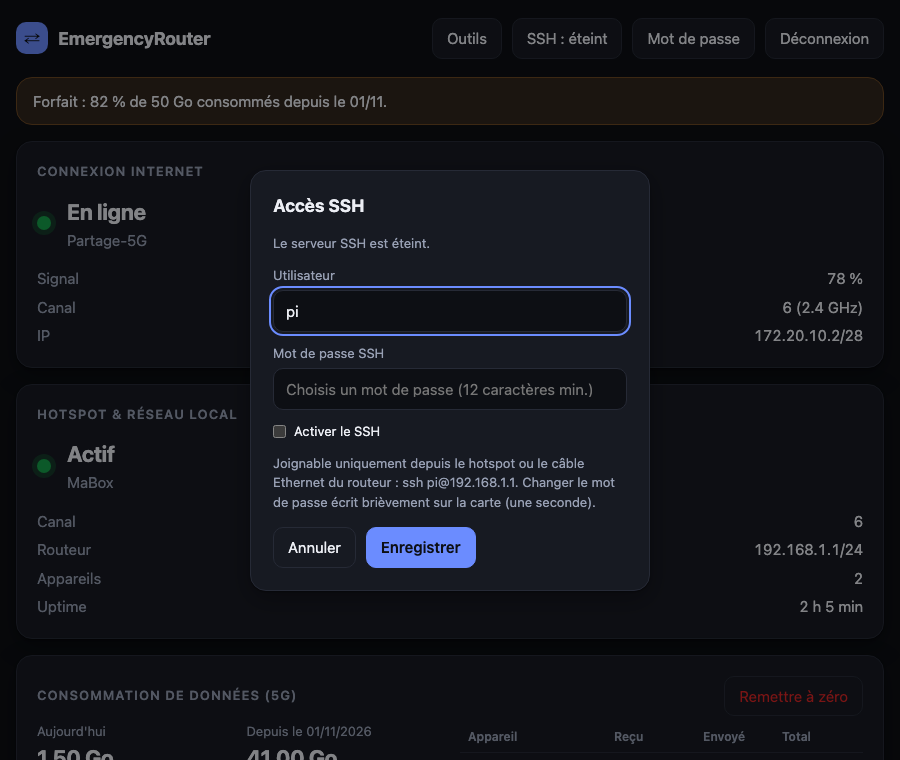
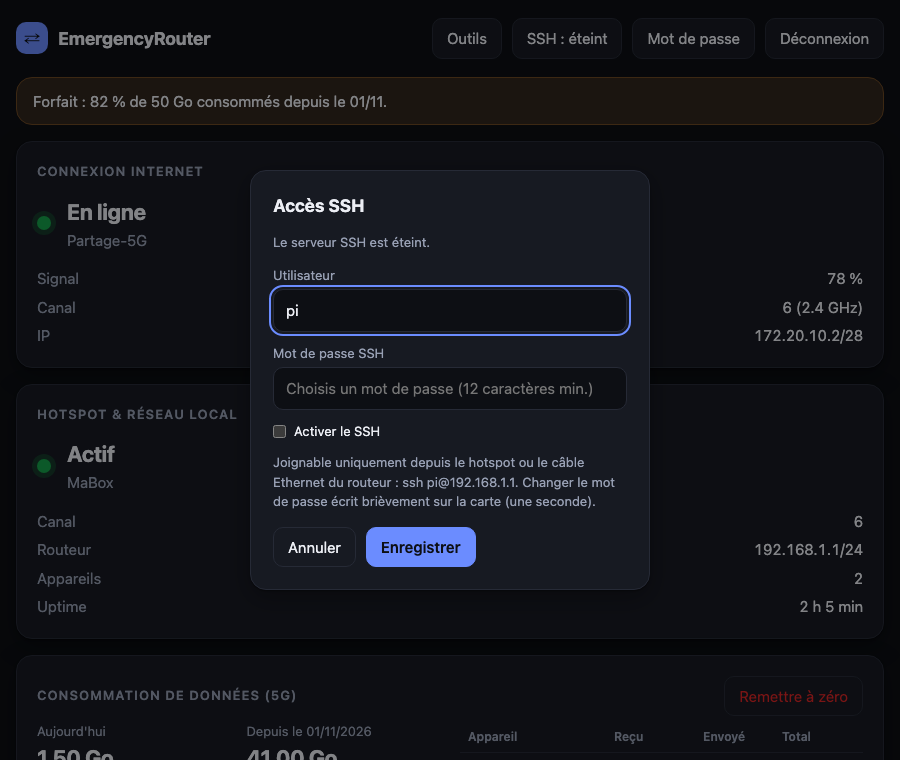
Assistant : le hotspot n'est appliqué qu'à la fin ; la coupure du Wi-Fi est gérée
Défaut constaté sur le Pi : l'étape 1 enregistrait immédiatement le nouveau nom et mot de passe du hotspot, alors que
l'assistant est utilisé PAR ce hotspot (ERouter-Setup). Il redémarrait, l'appareil perdait la connexion et l'étape 2
ne s'affichait jamais. Le faux serveur des tests ne coupait jamais la connexion : le défaut passait inaperçu.

- ordre : 5G, puis hotspot, puis fin ; le hotspot (et « assistant terminé ») sont envoyés en UN SEUL envoi à la toute fin,
  avec un avertissement clair et le nom du Wi-Fi sur lequel se reconnecter
- connecter l'iPhone fait changer le hotspot de canal (une seule puce) : la réponse HTTP peut ne jamais revenir ;
  l'assistant sonde alors le routeur jusqu'à voir la 5G connectée au lieu d'afficher une erreur
- plus aucune requête suspendue indéfiniment (délai maximal) ; une erreur de coupure est reconnaissable (err.network)
- recherche des réseaux lancée d'office quand la liste en cache est vide
- tests : aucun réglage du hotspot avant « Terminer » (vérifié : le test échoue sur l'ancienne version) ;
  scénario où la connexion est coupée en pleine connexion à l'uplink

diff --git a/erouter/static/features.js b/erouter/static/features.js
@@ -177,80 +177,107 @@ function openQr() {
 $("#qrClose").onclick = () => $("#qrDlg").close();
 
 // ---------- Assistant de premier démarrage ----------
-const wiz = {step: 0, ssid: "", password: "", networks: [], picked: "", connected: false};
-const WIZ_TITLES = ["1/3 · Le hotspot", "2/3 · La connexion 5G", "3/3 · Terminé"];
+// IMPORTANT : on est connecté à cet assistant PAR le hotspot du routeur. Changer son nom ou son mot de passe coupe donc la
+// connexion : c'est la toute dernière chose que fait l'assistant. La 5G d'abord (elle peut aussi couper le Wi-Fi quelques
+// secondes : le hotspot change de canal pour suivre l'iPhone), le hotspot à la fin.
+const pause = ms => new Promise(r => setTimeout(r, ms));
+const wiz = {step: 0, ssid: "", password: "", networks: [], picked: "", connected: false, shown: false};
+const WIZ_TITLES = ["1/3 · La connexion 5G", "2/3 · Le hotspot", "3/3 · Terminé"];
+const hotspotChanges = () => !settings || wiz.ssid !== settings.ap.ssid || wiz.password !== settings.ap.password;
 function stepper() { return `<div class="step">${[0, 1, 2].map(i => `<i class="${i <= wiz.step ? "on" : ""}"></i>`).join("")}</div>`; }
 function renderWizard() {
   $("#wizTitle").textContent = WIZ_TITLES[wiz.step];
   $("#wizErr").textContent = "";
   $("#wizPrev").hidden = wiz.step === 0;
+  $("#wizNext").disabled = false;
   $("#wizNext").textContent = wiz.step === 2 ? "Terminer" : "Suivant";
   $("#wizSkip").hidden = wiz.step === 2;
   let html = stepper();
   if (wiz.step === 0) {
-    html += `<p class="muted small">Le hotspot que ce routeur diffuse. Pour que tes appareils s'y connectent tout seuls, utilise le <b>même nom et le même mot de passe que ta box fibre</b>.</p>
-      <label>Nom du Wi-Fi (SSID)<input id="wzSsid" maxlength="32" value="${esc(wiz.ssid)}"></label>
-      <label>Mot de passe (8 caractères minimum)<input id="wzPw" type="text" autocomplete="off" maxlength="63" value="${esc(wiz.password)}"></label>`;
-  } else if (wiz.step === 1) {
-    html += `<p class="muted small">Choisis le partage de connexion de ton téléphone (idéalement en 2,4 GHz).</p>
+    html += `<p class="muted small">Choisis le partage de connexion de ton téléphone (idéalement en 2,4 GHz) et <b>garde l'écran « Partage de connexion » ouvert</b> sur le téléphone pendant la recherche. Le Wi-Fi du routeur peut se couper quelques secondes pendant la connexion : l'assistant attend.</p>
       <div class="list" id="wzNets">${wiz.networks.map(n => `<label class="item"><input type="radio" name="wzNet" value="${esc(n.ssid)}" ${wiz.picked === n.ssid ? "checked" : ""}>
-        <span class="name">${esc(n.ssid)}</span><span class="tag">${n.freq > 4000 ? "5 GHz" : "2,4 GHz"}</span>${n.in_use ? '<span class="tag ok">connecté</span>' : ""}</label>`).join("") || '<div class="muted">Aucun réseau trouvé.</div>'}</div>
+        <span class="name">${esc(n.ssid)}</span><span class="tag">${n.freq > 4000 ? "5 GHz" : "2,4 GHz"}</span>${n.in_use ? '<span class="tag ok">connecté</span>' : ""}</label>`).join("")
+        || `<div class="muted">${wiz.scanning ? "Recherche des réseaux…" : "Aucun réseau trouvé : active le partage de connexion puis actualise."}</div>`}</div>
       <button type="button" id="wzScan">Actualiser la liste</button>
       <label id="wzPwWrap" hidden>Mot de passe du réseau<input id="wzNetPw" type="password" autocomplete="off" maxlength="63"></label>
       <p class="muted small">Tu peux aussi passer cette étape et la faire plus tard.</p>`;
+  } else if (wiz.step === 1) {
+    html += `<p class="muted small">Le hotspot que ce routeur diffuse. Pour que tes appareils s'y connectent tout seuls, utilise le <b>même nom et le même mot de passe que ta box fibre</b>. Il ne sera appliqué qu'à la fin.</p>
+      <label>Nom du Wi-Fi (SSID)<input id="wzSsid" maxlength="32" value="${esc(wiz.ssid)}"></label>
+      <label>Mot de passe (8 caractères minimum)<input id="wzPw" type="text" autocomplete="off" maxlength="63" value="${esc(wiz.password)}"></label>`;
   } else {
-    html += `<p>${wiz.connected ? "La 5G est connectée." : "La 5G n'est pas encore connectée : tu pourras la choisir plus tard dans « Réseaux Wi-Fi »."}</p>
-      <p class="muted small">Tes appareils peuvent rejoindre « ${esc(wiz.ssid)} ». Besoin d'un accès SSH ? Bouton « SSH » en haut de la page. Le bouton « Outils » regroupe le QR code du Wi-Fi, la sauvegarde et le diagnostic.</p>
-      <button type="button" id="wzQr">Afficher le QR code du Wi-Fi</button>`;
+    html += `<p>${wiz.connected ? "La 5G est connectée." : "La 5G n'est pas encore connectée : tu pourras la choisir plus tard dans « Réseaux Wi-Fi »."}</p>` +
+      (hotspotChanges() ? `<p class="banner">En terminant, le hotspot devient <b>« ${esc(wiz.ssid)} »</b> avec le mot de passe que tu as choisi. <b>Ton appareil sera déconnecté</b> : reconnecte-toi à ce Wi-Fi, puis rouvre cette page.</p>` : `<p class="muted small">Le hotspot reste « ${esc(wiz.ssid)} ».</p>`) +
+      `<p class="muted small">Besoin d'un accès SSH ? Bouton « SSH » en haut de la page. Le bouton « Outils » regroupe le QR code du Wi-Fi, la sauvegarde et le diagnostic.</p>
+      <button type="button" id="wzQr">Afficher le QR code du Wi-Fi actuel</button>`;
   }
   $("#wizBody").innerHTML = html;
-  if (wiz.step === 1) {
+  if (wiz.step === 0) {
     $("#wzScan").onclick = () => scanForWizard(true);
     $("#wizBody").onchange = e => { if (e.target.name === "wzNet") { wiz.picked = e.target.value; const n = wiz.networks.find(x => x.ssid === wiz.picked); $("#wzPwWrap").hidden = !(n && n.secured && !n.saved); } };
   }
   if (wiz.step === 2) $("#wzQr").onclick = () => { $("#wizDlg").close(); openQr(); };
 }
 async function scanForWizard(rescan) {
+  wiz.scanning = true; renderWizard();
   try {
-    const d = await api("/api/wifi/scan" + (rescan ? "?rescan=1" : ""));
+    const d = await api("/api/wifi/scan" + (rescan ? "?rescan=1" : ""), undefined, rescan ? 70000 : 25000);
     wiz.networks = d.networks.map(n => ({...n, saved: d.saved.includes(n.ssid)}));
-  } catch (e) { $("#wizErr").textContent = e.message; }
-  renderWizard();
+    if (!wiz.networks.length && !rescan) { wiz.scanning = false; return scanForWizard(true); }     // aucun résultat en cache : on lance une vraie recherche
+  } catch (e) { wiz.scanning = false; renderWizard(); $("#wizErr").textContent = e.message; return; }
+  wiz.scanning = false; renderWizard();
+}
+async function waitForUplink(ssid, seconds) {
+  for (let i = 0; i < seconds / 2; i++) {
+    await pause(2000);
+    try { const s = await api("/api/status", undefined, 5000); if (s.uplink.connected && s.uplink.ssid === ssid) return true; } catch (e) { /* le Wi-Fi du routeur revient */ }
+  }
+  return false;
 }
 async function wizardNext() {
   $("#wizErr").textContent = "";
   if (wiz.step === 0) {
-    wiz.ssid = $("#wzSsid").value.trim(); wiz.password = $("#wzPw").value;
-    if (!wiz.ssid || wiz.password.length < 8) { $("#wizErr").textContent = "Un nom et un mot de passe de 8 caractères minimum."; return; }
-    try { await api("/api/settings", {ap: {ssid: wiz.ssid, password: wiz.password, enabled: true}}); } catch (e) { $("#wizErr").textContent = e.message; return; }
-    wiz.step = 1; await scanForWizard(false); return;
-  }
-  if (wiz.step === 1) {
     if (wiz.picked && !wiz.connected) {
       const n = wiz.networks.find(x => x.ssid === wiz.picked);
       const pw = n && n.secured && !n.saved ? $("#wzNetPw").value : null;
       if (n && n.secured && !n.saved && !pw) { $("#wizErr").textContent = "Saisis le mot de passe du réseau."; $("#wzPwWrap").hidden = false; return; }
       $("#wizNext").disabled = true; $("#wizNext").textContent = "Connexion…";
-      try { await api("/api/wifi/connect", {ssid: wiz.picked, password: pw}); wiz.connected = true; }
-      catch (e) { $("#wizErr").textContent = e.message; $("#wizNext").disabled = false; $("#wizNext").textContent = "Suivant"; return; }
-      $("#wizNext").disabled = false;
+      try { await api("/api/wifi/connect", {ssid: wiz.picked, password: pw}, 90000); wiz.connected = true; }
+      catch (e) {
+        if (e.network) wiz.connected = await waitForUplink(wiz.picked, 40);      // coupure attendue : on attend que le routeur revienne
+        if (!wiz.connected) { $("#wizErr").textContent = e.network ? "Connexion non confirmée : vérifie le mot de passe et que le partage de connexion est actif." : e.message; renderWizardKeep(); return; }
+      }
     }
+    wiz.step = 1; renderWizard(); return;
+  }
+  if (wiz.step === 1) {
+    wiz.ssid = $("#wzSsid").value.trim(); wiz.password = $("#wzPw").value;
+    if (!wiz.ssid || wiz.password.length < 8) { $("#wizErr").textContent = "Un nom et un mot de passe de 8 caractères minimum."; return; }
     wiz.step = 2; renderWizard(); return;
   }
   await finishWizard();
 }
+function renderWizardKeep() { const err = $("#wizErr").textContent; renderWizard(); $("#wizErr").textContent = err; }
 async function finishWizard() {
-  try { await api("/api/settings", {setup: {done: true}}); } catch (e) { /* sans gravité : l'assistant se rouvrira */ }
-  $("#wizDlg").close(); loadSettingsAll(); refresh();
+  const changed = hotspotChanges();
+  $("#wizNext").disabled = true; $("#wizNext").textContent = "Application…";
+  try { await api("/api/settings", {ap: {ssid: wiz.ssid, password: wiz.password, enabled: true}, setup: {done: true}}); }
+  catch (e) {
+    if (!e.network) { $("#wizErr").textContent = e.message; $("#wizNext").disabled = false; $("#wizNext").textContent = "Terminer"; return; }
+    // coupure attendue : le hotspot vient de changer de nom
+  }
+  $("#wizDlg").close();
+  if (changed) alert(`Le hotspot s'appelle maintenant « ${wiz.ssid} ».\nReconnecte ton appareil à ce Wi-Fi avec le nouveau mot de passe, puis rouvre cette page.`);
+  else { loadSettingsAll(); refresh(); }
 }
 function openWizard() {
-  Object.assign(wiz, {step: 0, ssid: settings?.ap.ssid ?? "", password: settings?.ap.password ?? "", picked: "", connected: false});
-  renderWizard(); $("#wizDlg").showModal();
+  Object.assign(wiz, {step: 0, ssid: settings?.ap.ssid ?? "", password: settings?.ap.password ?? "", picked: "", connected: false, networks: []});
+  renderWizard(); $("#wizDlg").showModal(); scanForWizard(false);
 }
 $("#wizForm").onsubmit = e => { e.preventDefault(); wizardNext(); };
-$("#wizPrev").onclick = () => { wiz.step = Math.max(0, wiz.step - 1); if (wiz.step === 1) scanForWizard(false); else renderWizard(); };
-$("#wizSkip").onclick = async () => { if (wiz.step === 0 || wiz.step === 1) { wiz.step += 1; if (wiz.step === 1) await scanForWizard(false); else renderWizard(); } };
-$("#wizDlg").addEventListener("cancel", e => { e.preventDefault(); });   // on ne ferme pas l'assistant par un appui sur Échap : « Passer » est explicite
+$("#wizPrev").onclick = () => { wiz.step = Math.max(0, wiz.step - 1); if (wiz.step === 0 && !wiz.networks.length) scanForWizard(false); else renderWizard(); };
+$("#wizSkip").onclick = () => { if (wiz.step < 2) { wiz.step += 1; renderWizard(); } };
+$("#wizDlg").addEventListener("cancel", e => { e.preventDefault(); });   // pas de fermeture par Échap : « Passer » est explicite
 
 // ---------- Cycle de vie ----------
 let timers2 = [];

diff --git a/tests/ui/scenarios/wizard.js b/tests/ui/scenarios/wizard.js
@@ -1,25 +1,21 @@
 async function scenario() {
   await sleep(2500);
-  const out = {openedByItself: document.getElementById("wizDlg").open, title1: document.getElementById("wizTitle").textContent};
-  document.getElementById("wzSsid").value = ""; document.getElementById("wzPw").value = "";
-  document.getElementById("wizNext").click(); await sleep(200);                       // champs vides : refus
-  out.errEmpty = document.getElementById("wizErr").textContent;
-  document.getElementById("wzSsid").value = "MaBox"; document.getElementById("wzPw").value = "motdepasse-box";
-  document.getElementById("wizNext").click(); await sleep(600);
-  out.title2 = document.getElementById("wizTitle").textContent;
-  out.networks = document.querySelectorAll("#wzNets .item").length;
-  document.getElementById("wizNext").click(); await sleep(200);                       // rien choisi : on passe
-  out.title3 = document.getElementById("wizTitle").textContent;
-  document.getElementById("wizPrev").click(); await sleep(500);
-  out.backToStep2 = document.getElementById("wizTitle").textContent;
-  const radio = document.querySelectorAll('#wzNets input[type=radio]')[1]; radio.checked = true; radio.dispatchEvent(new Event("change", {bubbles: true}));
-  out.pwShown = !document.getElementById("wzPwWrap").hidden;
-  document.getElementById("wizNext").click(); await sleep(200);                       // mot de passe manquant
-  out.errNoPw = document.getElementById("wizErr").textContent;
-  document.getElementById("wzNetPw").value = "motdepasse-5g"; document.getElementById("wizNext").click(); await sleep(600);
-  out.title3b = document.getElementById("wizTitle").textContent;
-  out.connectedMsg = document.getElementById("wizBody").textContent.slice(0, 40);
-  document.getElementById("wizNext").click(); await sleep(600);                       // « Terminer »
-  out.closed = !document.getElementById("wizDlg").open;
+  const $ = id => document.getElementById(id);
+  const out = {openedByItself: $("wizDlg").open, title1: $("wizTitle").textContent, networks: document.querySelectorAll("#wzNets .item").length};
+  const radio = document.querySelectorAll("#wzNets input[type=radio]")[1];          // « Routeur-4G » : protégé, pas encore enregistré
+  radio.checked = true; radio.dispatchEvent(new Event("change", {bubbles: true}));
+  $("wizNext").click(); await sleep(200);                                           // sans mot de passe : refus
+  out.errNoPw = $("wizErr").textContent;
+  $("wzNetPw").value = "motdepasse-5g"; $("wizNext").click(); await sleep(700);
+  out.title2 = $("wizTitle").textContent;
+  $("wzSsid").value = ""; $("wzPw").value = ""; $("wizNext").click(); await sleep(200);   // champs vides : refus
+  out.errEmpty = $("wizErr").textContent;
+  $("wzSsid").value = "Ouifi"; $("wzPw").value = "motdepasse-box"; $("wizNext").click(); await sleep(300);
+  out.title3 = $("wizTitle").textContent; out.warning = $("wizBody").textContent;
+  const before = await (await fetch("/__log")).json();                               // qu'a-t-on envoyé au routeur jusqu'ici ?
+  out.settingsBeforeFinish = before.filter(e => e.path === "/api/settings").length;
+  out.connectPosted = before.some(e => e.path === "/api/wifi/connect");
+  $("wizNext").click(); await sleep(800);                                            // « Terminer »
+  out.closed = !$("wizDlg").open; out.alerts = window.__alerts;
   report(out);
 }

diff --git a/erouter/static/app.js b/erouter/static/app.js
@@ -4,9 +4,17 @@ const esc = s => String(s ?? "").replace(/[&<>"']/g, c => ({"&": "&amp;", "<": "
 let timers = [];
 let saved = [];
 
-async function api(path, body) {
+async function api(path, body, timeoutMs = 25000) {
   const opt = body === undefined ? {} : {method: "POST", headers: {"Content-Type": "application/json"}, body: JSON.stringify(body)};
-  const r = await fetch(path, opt);
+  const ctl = new AbortController();
+  const timer = setTimeout(() => ctl.abort(), timeoutMs);      // jamais de requête suspendue indéfiniment
+  let r;
+  try { r = await fetch(path, {...opt, signal: ctl.signal}); }
+  catch (e) {
+    const err = new Error("Le routeur ne répond pas (le Wi-Fi s'est peut-être coupé quelques secondes).");
+    err.network = true;                                          // distingue une coupure d'une erreur renvoyée par le routeur
+    throw err;
+  } finally { clearTimeout(timer); }
   const j = await r.json().catch(() => ({}));
   if (r.status === 401 && path !== "/api/login") { boot(); throw new Error("Session expirée"); }
   if (!r.ok) throw new Error(j.error || "Erreur " + r.status);

diff --git a/tests/ui/probe.js b/tests/ui/probe.js
@@ -2,7 +2,9 @@
 window.__errors = [];
 window.addEventListener("error", e => window.__errors.push(String(e.message)));
 window.addEventListener("unhandledrejection", e => window.__errors.push("rejet : " + String(e.reason)));
-window.confirm = () => true;                       // en mode sans écran, confirm() refuse par défaut
+window.confirm = () => true;
+window.__alerts = [];
+window.alert = m => window.__alerts.push(String(m));                       // en mode sans écran, confirm() refuse par défaut
 window.sleep = ms => new Promise(r => setTimeout(r, ms));
 window.report = data => {                           // le test lit ce bloc dans le DOM final
   const pre = document.createElement("pre"); pre.id = "__result";

diff --git a/tests/ui/scenarios/wizard-cut.js b/tests/ui/scenarios/wizard-cut.js
@@ -1,0 +1,9 @@
+async function scenario() {
+  await sleep(2500);
+  const $ = id => document.getElementById(id);
+  const radio = document.querySelectorAll("#wzNets input[type=radio]")[1];
+  radio.checked = true; radio.dispatchEvent(new Event("change", {bubbles: true}));
+  $("wzNetPw").value = "motdepasse-5g"; $("wizNext").click();                       // la réponse ne reviendra jamais (Wi-Fi coupé)
+  await sleep(6000);                                                                 // l'assistant sonde le routeur toutes les 2 s
+  report({title: $("wizTitle").textContent, err: $("wizErr").textContent});
+}

diff --git a/tests/ui/smoke.py b/tests/ui/smoke.py
@@ -21,7 +21,7 @@ PORT = 8790
 class UiTests(unittest.TestCase):
     def run_scenario(self, scenario, width=1200):
         mock_server.LOG.clear()
-        mock_server.STATE.update(speed_polls=0, speed_started=False)
+        mock_server.STATE.update(speed_polls=0, speed_started=False, connected=None)
         srv = mock_server.serve(PORT, scenario)
         try:
             p = subprocess.run([CHROME, "--headless=new", "--disable-gpu", "--no-sandbox", f"--window-size={width},1800",
@@ -64,23 +64,36 @@ class UiTests(unittest.TestCase):
         self.assertTrue(r["qrSrc"].startswith("/api/qr.svg"))
         self.assertIn("MaBox", r["qrText"])
 
-    def test_first_run_wizard_walks_through_the_three_steps(self):
+    def test_first_run_wizard_applies_the_hotspot_only_at_the_very_end(self):
+        """Régression : l'assistant est utilisé PAR le hotspot ; changer son nom/mot de passe coupe la connexion.
+        Rien ne doit donc être appliqué avant la dernière étape."""
         r, log = self.run_scenario("wizard")
         self.assertTrue(r["openedByItself"], "l'assistant s'ouvre tout seul au premier démarrage")
-        self.assertTrue(r["title1"].startswith("1/3"))
-        self.assertIn("8 caractères", r["errEmpty"])
-        self.assertTrue(r["title2"].startswith("2/3"))
+        self.assertTrue(r["title1"].startswith("1/3 · La connexion 5G"))
         self.assertEqual(r["networks"], 2)
-        self.assertTrue(r["title3"].startswith("3/3") and r["backToStep2"].startswith("2/3"))
-        self.assertTrue(r["pwShown"])
         self.assertIn("mot de passe", r["errNoPw"].lower())
-        self.assertTrue(r["title3b"].startswith("3/3"))
-        self.assertIn("5G est connectée", r["connectedMsg"] + " La 5G est connectée.")
+        self.assertTrue(r["title2"].startswith("2/3 · Le hotspot"))
+        self.assertIn("8 caractères", r["errEmpty"])
+        self.assertTrue(r["title3"].startswith("3/3"))
+        self.assertIn("Ouifi", r["warning"])
+        self.assertIn("déconnecté", r["warning"])
+        self.assertTrue(r["connectPosted"], "la 5G est connectée avant que le hotspot change")
+        self.assertEqual(r["settingsBeforeFinish"], 0, "AUCUN réglage du hotspot n'est envoyé avant « Terminer »")
         self.assertTrue(r["closed"])
+        self.assertEqual(len(r["alerts"]), 1)
+        self.assertIn("Ouifi", r["alerts"][0], "on dit à l'utilisateur sur quel Wi-Fi se reconnecter")
         posts = [(e["path"], e["body"]) for e in log]
-        self.assertIn(("/api/settings", {"ap": {"ssid": "MaBox", "password": "motdepasse-box", "enabled": True}}), posts)
         self.assertIn(("/api/wifi/connect", {"ssid": "Routeur-4G", "password": "motdepasse-5g"}), posts)
-        self.assertIn(("/api/settings", {"setup": {"done": True}}), posts, "l'assistant mémorise qu'il a été terminé")
+        self.assertEqual([b for p, b in posts if p == "/api/settings"],
+                         [{"ap": {"ssid": "Ouifi", "password": "motdepasse-box", "enabled": True}, "setup": {"done": True}}],
+                         "un seul envoi, à la fin : hotspot + assistant terminé")
+
+    def test_wizard_survives_the_wifi_cut_during_the_uplink_connection(self):
+        """Connecter l'iPhone fait changer le hotspot de canal : la réponse HTTP ne revient jamais. L'assistant doit
+        attendre le retour du routeur, constater que la 5G est connectée, et continuer."""
+        r, _ = self.run_scenario("wizard-cut")
+        self.assertTrue(r["title"].startswith("2/3 · Le hotspot"), "il est passé à l'étape suivante malgré la coupure")
+        self.assertEqual(r["err"], "")
 
     def test_speedtest_runs_polls_and_prefills_the_anti_latency_rates(self):
         r, log = self.run_scenario("speedtest")

diff --git a/tests/ui/mock_server.py b/tests/ui/mock_server.py
@@ -8,7 +8,7 @@ from http.server import BaseHTTPRequestHandler, ThreadingHTTPServer
 
 STATIC = os.path.join(os.path.dirname(__file__), "..", "..", "erouter", "static")
 LOG = []
-STATE = {"speed_polls": 0, "speed_started": False}
+STATE = {"speed_polls": 0, "speed_started": False, "connected": None}
 LOCK = threading.Lock()
 
 
@@ -102,6 +102,9 @@ class Handler(BaseHTTPRequestHandler):
         if path in ("/api/diagnostic", "/api/backup"):
             return self._send("{}", "application/octet-stream")
         data = api(self.scenario).get(path)
+        if path == "/api/status" and STATE["connected"]:               # la connexion demandée est (enfin) établie
+            data = json.loads(json.dumps(data))
+            data["uplink"]["ssid"] = STATE["connected"]
         return self._send(data) if data is not None else self._send({"error": "inconnu"}, code=404)
 
     def do_POST(self):
@@ -112,6 +115,12 @@ class Handler(BaseHTTPRequestHandler):
             LOG.append({"path": path, "body": body})
             if path == "/api/speedtest":
                 STATE["speed_started"], STATE["speed_polls"] = True, 0
+            if path == "/api/wifi/connect":
+                STATE["connected"] = body["ssid"]
+        if path == "/api/wifi/connect" and self.scenario == "wizard-cut":
+            self.close_connection = True                                # le Wi-Fi du routeur se coupe : aucune réponse n'arrive
+            self.connection.close()
+            return
         if path == "/api/speedtest":
             return self._send({"running": True, "stage": "latence", "result": None, "history": []})
         return self._send({"ok": True, "enabled": False, "relogin": False})

diff --git a/tests/ui/screenshots.py b/tests/ui/screenshots.py
@@ -16,7 +16,7 @@ SHOTS = [
     ("mobile.png", "dashboard-shot", 500, 3900, True),
     ("ssh-dialog.png", "ssh-shot", 900, 760, True),
     ("tools-dialog.png", "tools-shot", 900, 760, True),
-    ("wizard.png", "wizard-shot", 900, 720, True),
+    ("wizard.png", "wizard-shot", 900, 760, True),
 ]
 PORT = 8791
 

diff --git a/README.md b/README.md
@@ -42,8 +42,10 @@ le **système en lecture seule** : on peut couper le courant à tout moment.
    `shasum -a 256 -c SHA256SUMS`.
 2. Au premier démarrage, le hotspot **`ERouter-Setup`** (mot de passe `erouter-setup`) sert à la configuration.
 3. Ouvre **https://192.168.1.1/** (ou `https://erouter.local/`) : le navigateur avertit que le certificat est auto-signé
-   (normal : compare l'empreinte SHA-256 affichée en bas de la page), choisis le mot de passe admin, puis règle le vrai
-   SSID/mot de passe du hotspot et le Wi-Fi de la 5G.
+   (normal : compare l'empreinte SHA-256 affichée en bas de la page), choisis le mot de passe admin, puis suis l'assistant :
+   Wi-Fi de la 5G d'abord (garde l'écran « Partage de connexion » ouvert sur le téléphone), vrai SSID/mot de passe du
+   hotspot ensuite. **Après l'assistant, ton appareil est déconnecté** : le hotspot a changé de nom, reconnecte-toi.
+   Une réinstallation (reflash) efface le Wi-Fi de la 5G enregistré : il faut le choisir de nouveau.
 
 ### Accès SSH
 
@@ -82,7 +84,7 @@ Sans l'image il n'y a pas de partition de données séparée : la protection de 
 | **QR code du Wi-Fi** | Outils | connecte un téléphone au hotspot en scannant | — |
 | **Diagnostic** | Outils | un fichier avec l'état, la configuration **sans mot de passe**, le réseau et les journaux, à joindre à une demande d'aide | relis-le : il contient des noms de réseaux, des adresses IP et MAC |
 | **Sauvegarde / restauration** | Outils | exporte et réimporte la configuration (hotspot, forfait, plafonds, mot de passe admin) | le fichier contient le mot de passe du hotspot : garde-le en lieu sûr ; le Wi-Fi 5G et le SSH ne sont pas inclus |
-| **Assistant de premier démarrage** | s'ouvre seul | 3 étapes : hotspot, Wi-Fi de la 5G, terminé | — |
+| **Assistant de premier démarrage** | s'ouvre seul | 3 étapes : Wi-Fi de la 5G, hotspot, terminé. **Le hotspot n'est appliqué qu'à la toute fin** : l'assistant est utilisé *par* ce hotspot, le changer coupe la connexion (il te dit sur quel Wi-Fi te reconnecter) | — |
 | **Chien de garde** | automatique | le Pi redémarre seul s'il se fige ; l'agent est relancé s'il ne répond plus | — |
 
 ## Limites à connaître
